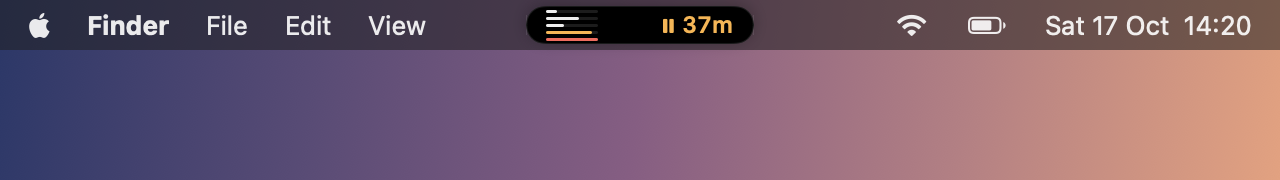
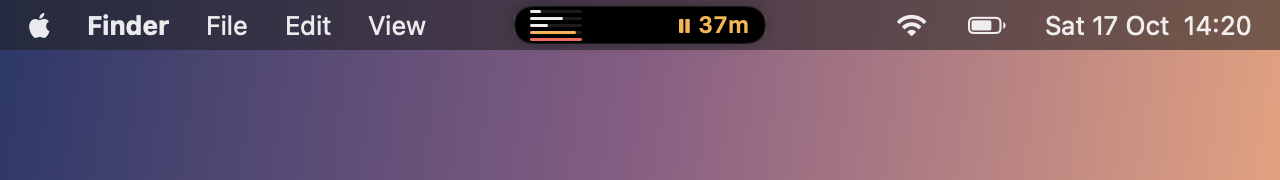
readme

Changed region(s): [[0.5, 0.0278, 0.625, 0.25], [0.375, 0.0278, 0.4688, 0.25]]

diff --git a/README.md b/README.md
@@ -1,0 +1,36 @@
+# Brim
+
+Your AI subscription limits, wrapped around the MacBook notch.
+
+![Brim, open](docs/open.png)
+
+Closed, it's a sliver either side of the camera: one hairline per account on the left, the next reset on the right.
+
+![Brim, closed](docs/closed.png)
+
+Hover the notch and it opens: every account's 5-hour session and weekly limit, how far through each window you are (the tick), and a countdown to each reset. On a screen without a notch it becomes a small pill in the menu bar.
+
+- **Claude** and **ChatGPT / Codex**, as many accounts of each as you like. Your Claude Code and Codex CLI logins are picked up automatically; add others with a browser sign-in.
+- **Alerts** at thresholds you pick, when unused weekly quota is about to expire, when a limit resets, and when OpenAI or Anthropic announce a reset in public ([resets.albastov.com](https://resets.albastov.com)).
+- **Agent-friendly**: `brim status --json`, plus hooks that get every alert as JSON, so an agent can spend leftover quota or pause heavy work.
+
+## Install
+
+macOS 14+, Xcode command line tools.
+
+```sh
+git clone https://github.com/SignedAdam/brim && cd brim
+make install        # builds, links brim onto your PATH, runs at login
+```
+
+## Command line
+
+```
+brim status [--json] [--fresh]    usage per account
+brim add claude|codex             sign in to another account
+brim list | rename | remove       manage accounts
+brim alerts                       recent alerts, JSON lines
+brim quit
+```
+
+Everything lives in `~/.brim` (owner-only). Tokens from Claude Code and the Codex CLI are only read, never refreshed, so Brim never fights them over a login.
